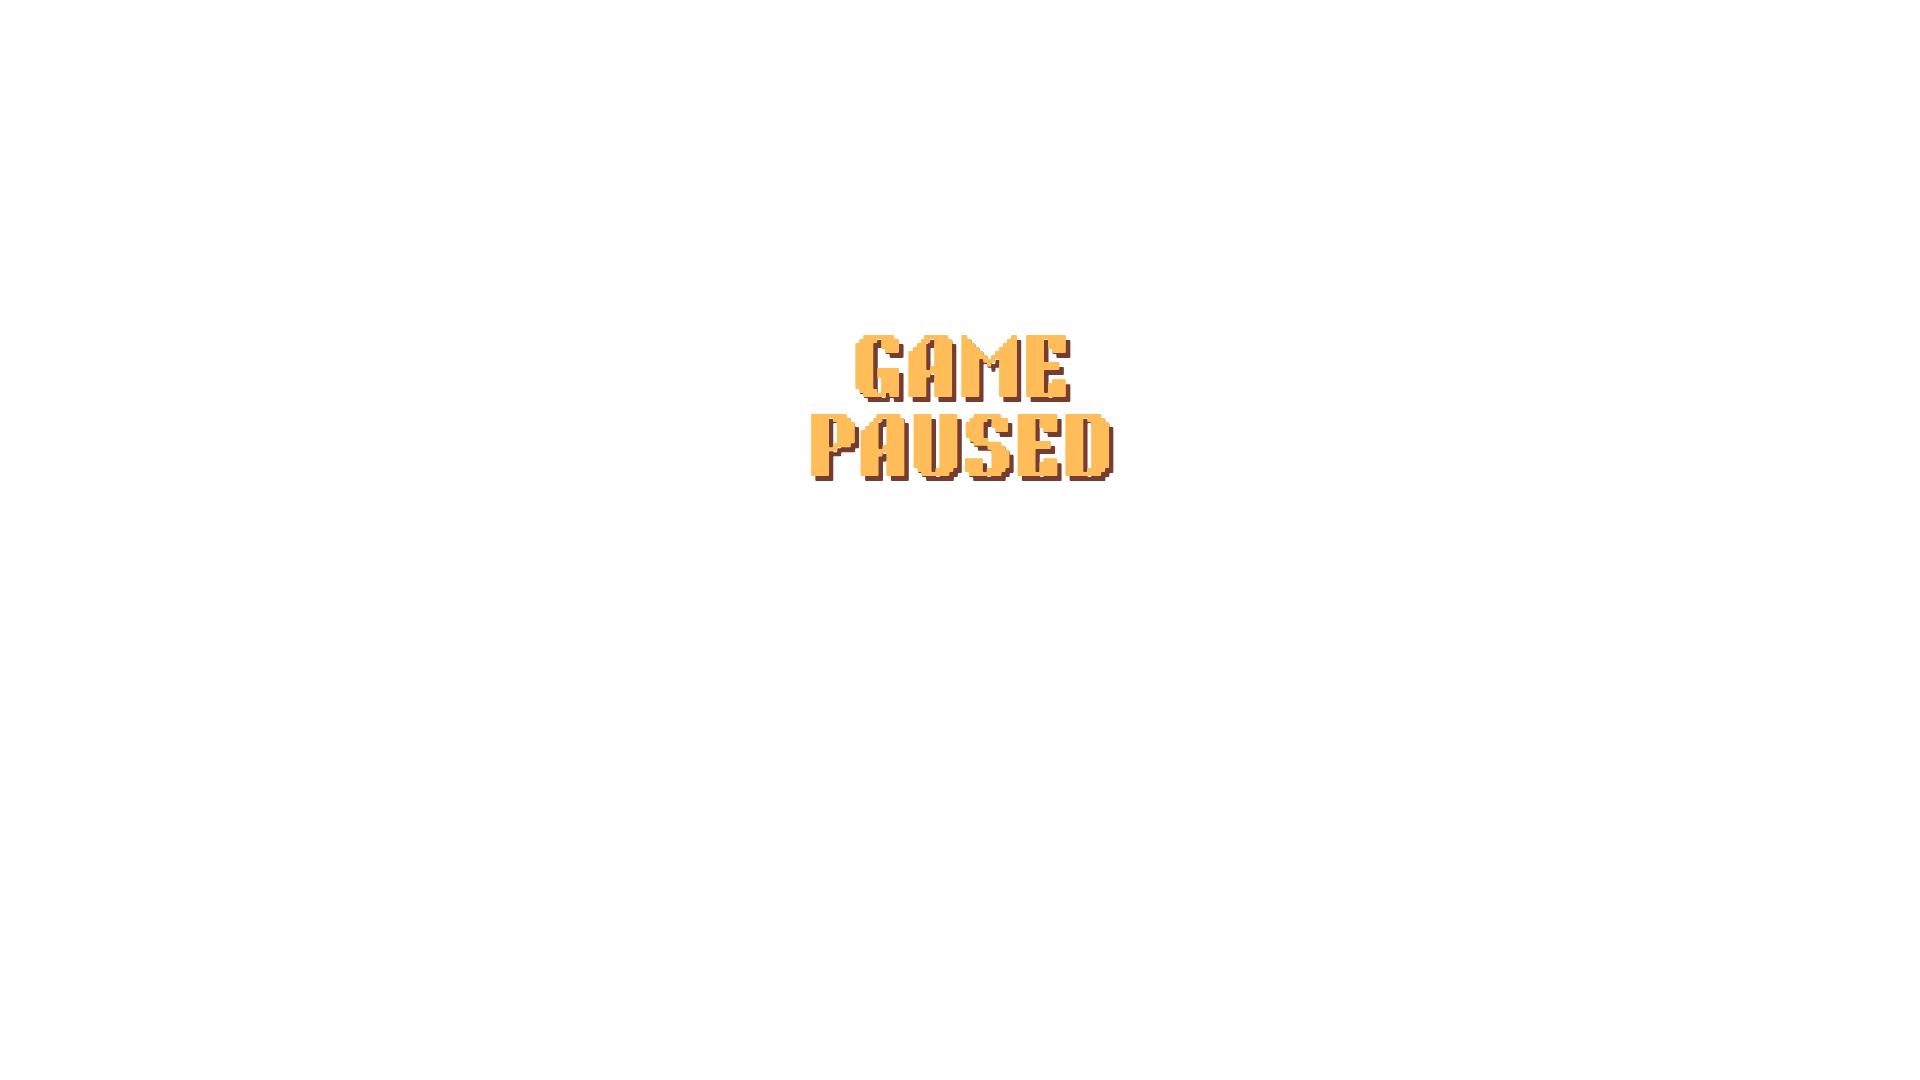
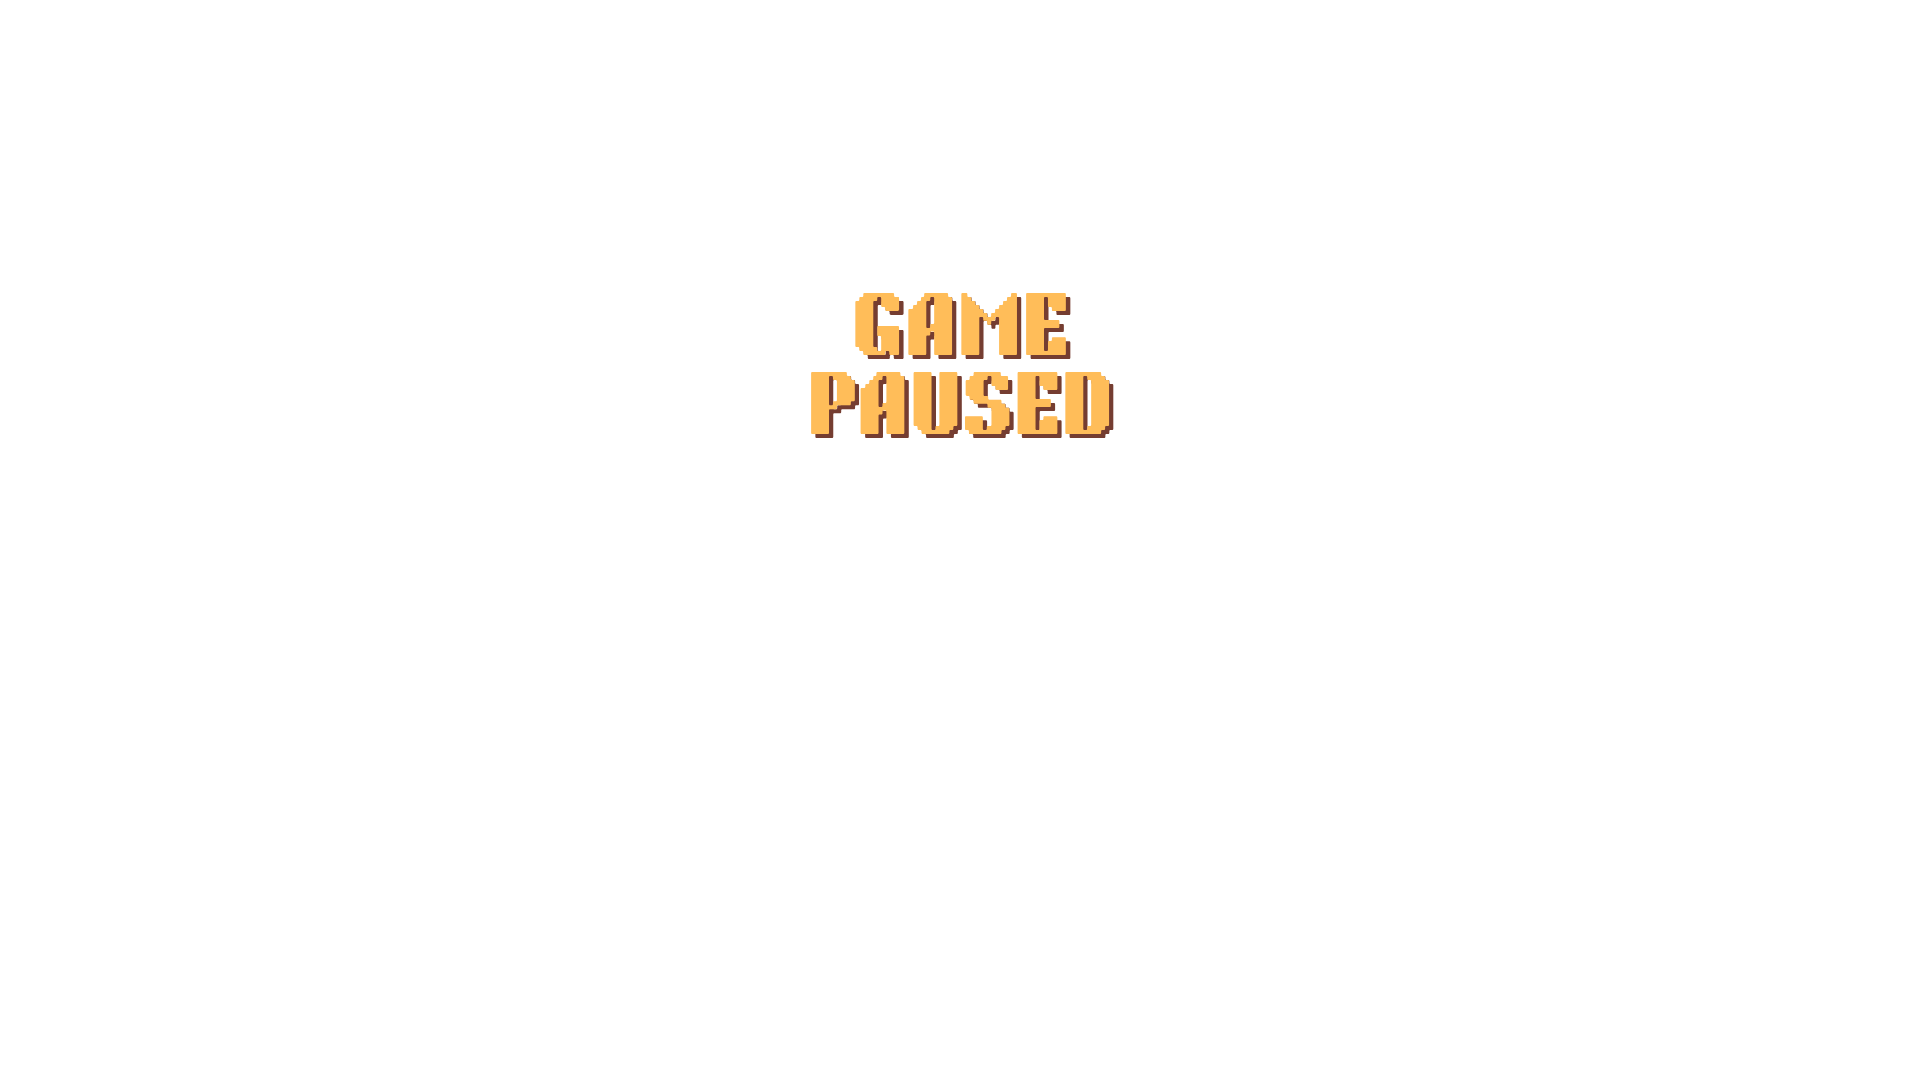
Improved pause button

Changed region(s): [[0.4062, 0.275, 0.5938, 0.4583]]

diff --git a/Codes/PauseMenuPanel.java b/Codes/PauseMenuPanel.java
@@ -27,9 +27,9 @@ public class PauseMenuPanel extends OverlayPanel{
         resume.setAlignmentX(CENTER_ALIGNMENT);
         exit.setAlignmentX(CENTER_ALIGNMENT);
 
-        backToMainMenu.setButtonSize(250, 80);
-        resume.setButtonSize(250, 80);
-        exit.setButtonSize(250, 60);
+        backToMainMenu.setButtonSize(250, 85);
+        resume.setButtonSize(250, 85);
+        exit.setButtonSize(250, 65);
 
         resume.setAlignmentX(CENTER_ALIGNMENT);
         backToMainMenu.setAlignmentX(CENTER_ALIGNMENT);
@@ -51,7 +51,7 @@ public class PauseMenuPanel extends OverlayPanel{
 
         this.removeAll(); // Clears anything prev added to the container and makes sure panel is a blank state
         add(Box.createVerticalGlue());
-        add(Box.createRigidArea(new Dimension(0, 300)));
+        add(Box.createRigidArea(new Dimension(0, 280)));
         add(resume);
         add(Box.createRigidArea(new Dimension(0, 20)));
         add(backToMainMenu);

diff --git a/Codes/Game.java b/Codes/Game.java
@@ -15,7 +15,6 @@ import java.util.Random;
 import java.util.Set;
 import java.util.concurrent.CopyOnWriteArrayList;
 import javax.swing.ImageIcon;
-import javax.swing.JButton;
 import javax.swing.JPanel;
 import javax.swing.SwingUtilities;
 
@@ -42,7 +41,7 @@ public class Game extends JPanel {
     private static final int BAR_HEIGHT = 25;
 
     private MainLayeredPane rootLayeredPane;
-    private JButton pauseBtn = new JButton("Pause");
+    private GameButton pauseBtn = new GameButton("pauseMenu/pauseButton.png", "pauseMenu/pauseButton_pressed.png", null);
 
     // spawning parameters
     private double lastEnemySpawnTime;
@@ -82,7 +81,7 @@ public class Game extends JPanel {
         initializeWave(currentLevel, null);
 
         // Pause button
-        pauseBtn.setBounds(panelWidth - 125, 20, 100, 40);
+        pauseBtn.setBounds(panelWidth - 210, 20, 180, 70);
         pauseBtn.setFocusable(false);
         pauseBtn.addActionListener(e -> {
             SoundManager.getInstance().playSFX("Music/click.wav");